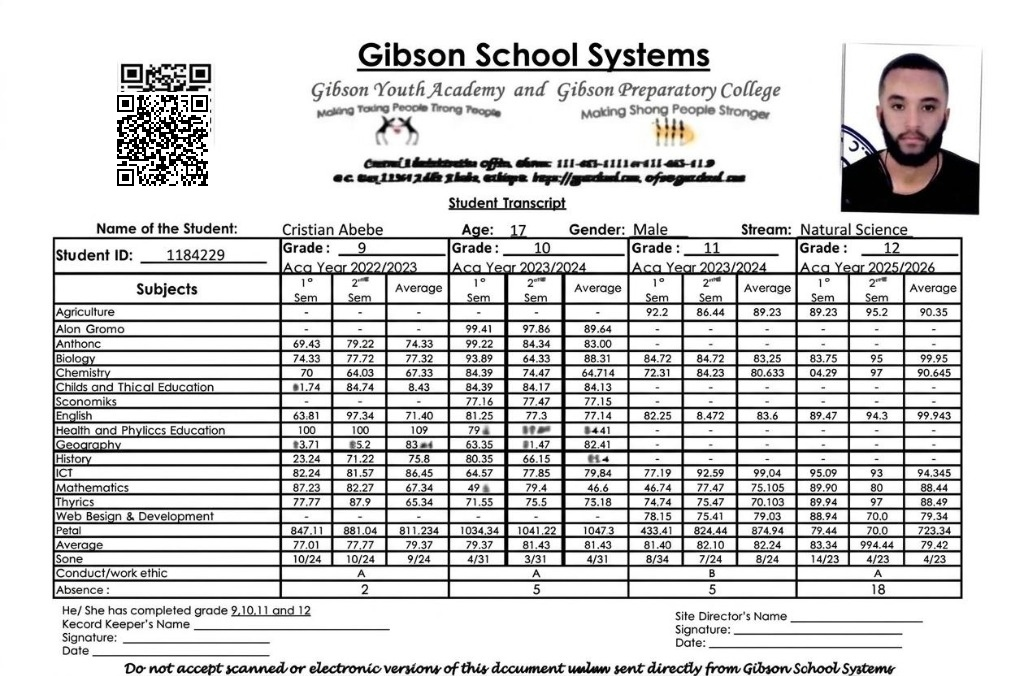
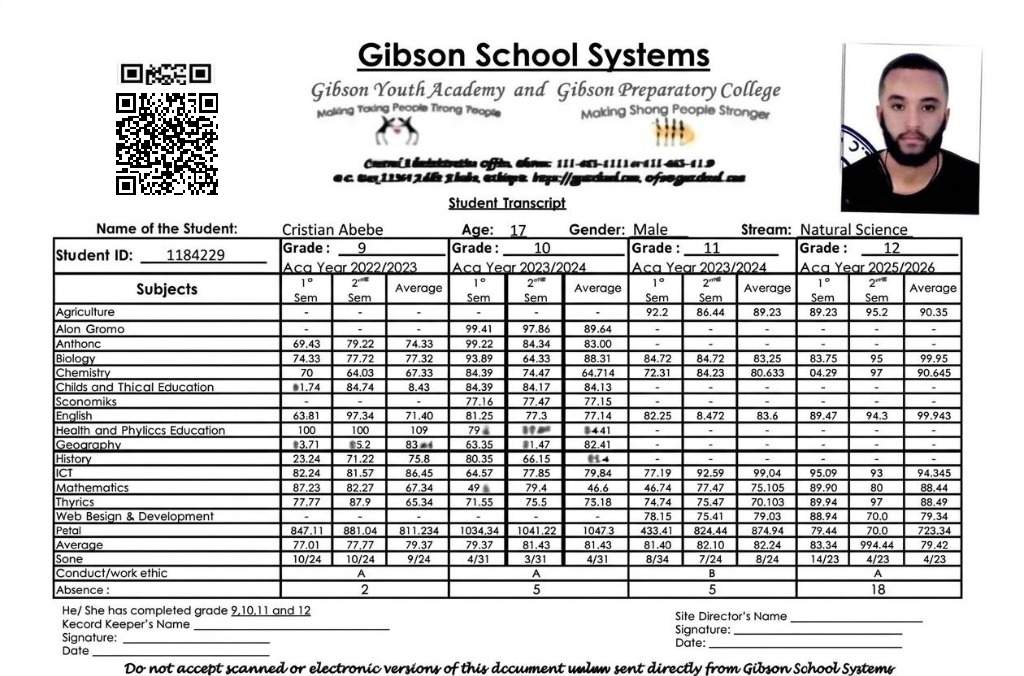
Fix QR overlap: clean white background with crisp QR code

Changed region(s): [[0.0938, 0.1243, 0.2188, 0.3107]]

diff --git a/scripts/fix_qr_overlap.js b/scripts/fix_qr_overlap.js
@@ -1,0 +1,65 @@
+const sharp = require('sharp');
+const QRCode = require('qrcode');
+const fs = require('fs');
+const path = require('path');
+
+async function fixQrOverlap() {
+  const uploadedPath = 'C:/Users/HP/.gemini/antigravity/brain/f166e2b1-7f86-4e70-8eb8-b563bbfcb585/.user_uploaded/media_1789933080727.jpg';
+  const targetUrl = 'https://www.gyaschol.com/ref/1184229.png';
+  
+  // Clean white solid patch that completely clears any traces of old/overlapping QR codes
+  // QR code box is located in x: 105..225, y: 80..200
+  const whitePatch = Buffer.from(
+    `<svg width="125" height="125" xmlns="http://www.w3.org/2000/svg">` +
+      `<rect width="125" height="125" fill="#ffffff" />` +
+    `</svg>`
+  );
+
+  // Generate crisp, clean QR code with margin: 0
+  const qrBuffer = await QRCode.toBuffer(targetUrl, {
+    errorCorrectionLevel: 'H',
+    margin: 0,
+    width: 102,
+    color: {
+      dark: '#000000',
+      light: '#ffffff'
+    }
+  });
+
+  const compositeList = [
+    {
+      input: whitePatch,
+      left: 105,
+      top: 85
+    },
+    {
+      input: qrBuffer,
+      left: 116,
+      top: 93
+    }
+  ];
+
+  const resultJpg = await sharp(uploadedPath)
+    .composite(compositeList)
+    .jpeg({ quality: 98 })
+    .toBuffer();
+
+  const previewPath = 'C:/Users/HP/.gemini/antigravity/brain/f166e2b1-7f86-4e70-8eb8-b563bbfcb585/clean_qr_preview.jpg';
+  fs.writeFileSync(previewPath, resultJpg);
+
+  const publicPath = path.resolve('public');
+  const refDir = path.join(publicPath, 'ref');
+  if (!fs.existsSync(refDir)) {
+    fs.mkdirSync(refDir, { recursive: true });
+  }
+
+  fs.writeFileSync(path.join(publicPath, 'cristian_abebe_transcript_updated.jpg'), resultJpg);
+  fs.writeFileSync(path.join(refDir, '1184229.jpg'), resultJpg);
+
+  const resultPng = await sharp(resultJpg).png().toBuffer();
+  fs.writeFileSync(path.join(refDir, '1184229.png'), resultPng);
+
+  console.log('Fixed QR overlap and saved clean files!');
+}
+
+fixQrOverlap().catch(console.error);
